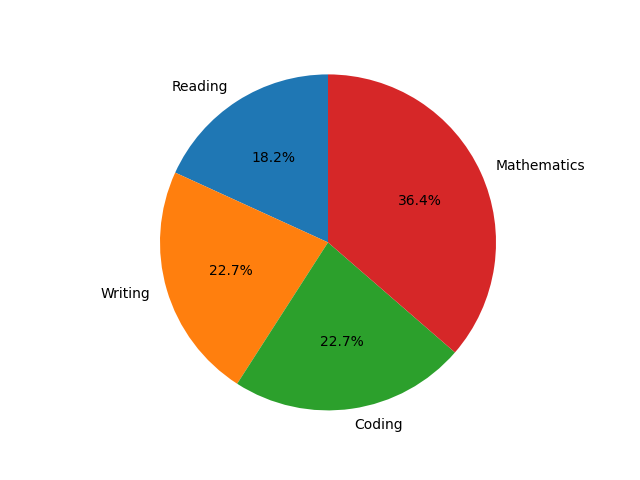
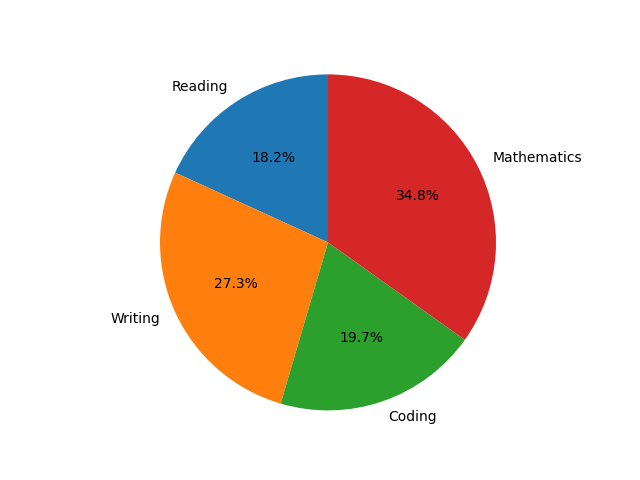
fix values

diff --git a/README.md b/README.md
@@ -19,14 +19,14 @@ pip install pandas matplotlib
 
 ```
 Date,Deep Work Hours,Reading,Writing,Coding,Mathematics
-2023-06-12,8,3,2,3,4
-2023-06-13,1,1,2,1,4
-2023-06-14,8,2,3,3,4
-2023-06-17,8,2,3,3,4
-2023-06-18,8,3,2,3,4
-2023-06-19,1,1,2,1,4
-2023-06-20,8,2,3,3,4
-2023-06-21,8,2,3,3,4
+2023-06-12,10,1,2,3,4
+2023-06-13,8,1,1,2,4
+2023-06-14,8,2,3,1,2
+2023-06-17,8,2,3,2,1
+2023-06-18,10,3,2,1,4
+2023-06-19,8,2,1,1,4
+2023-06-20,7,1,3,3,0
+2023-06-21,7,0,3,0,4
 ```
 
   Notes about the .csv file:

diff --git a/updated_totals.md b/updated_totals.md
@@ -1,6 +1,6 @@
-Total Deep Work Hours: 50
+Total Deep Work Hours: 66
 Total Deep Work Hours (by Category):
-  - Reading: 16
-  - Writing: 20
-  - Coding: 20
-  - Mathematics: 32
+  - Reading: 12
+  - Writing: 18
+  - Coding: 13
+  - Mathematics: 23
